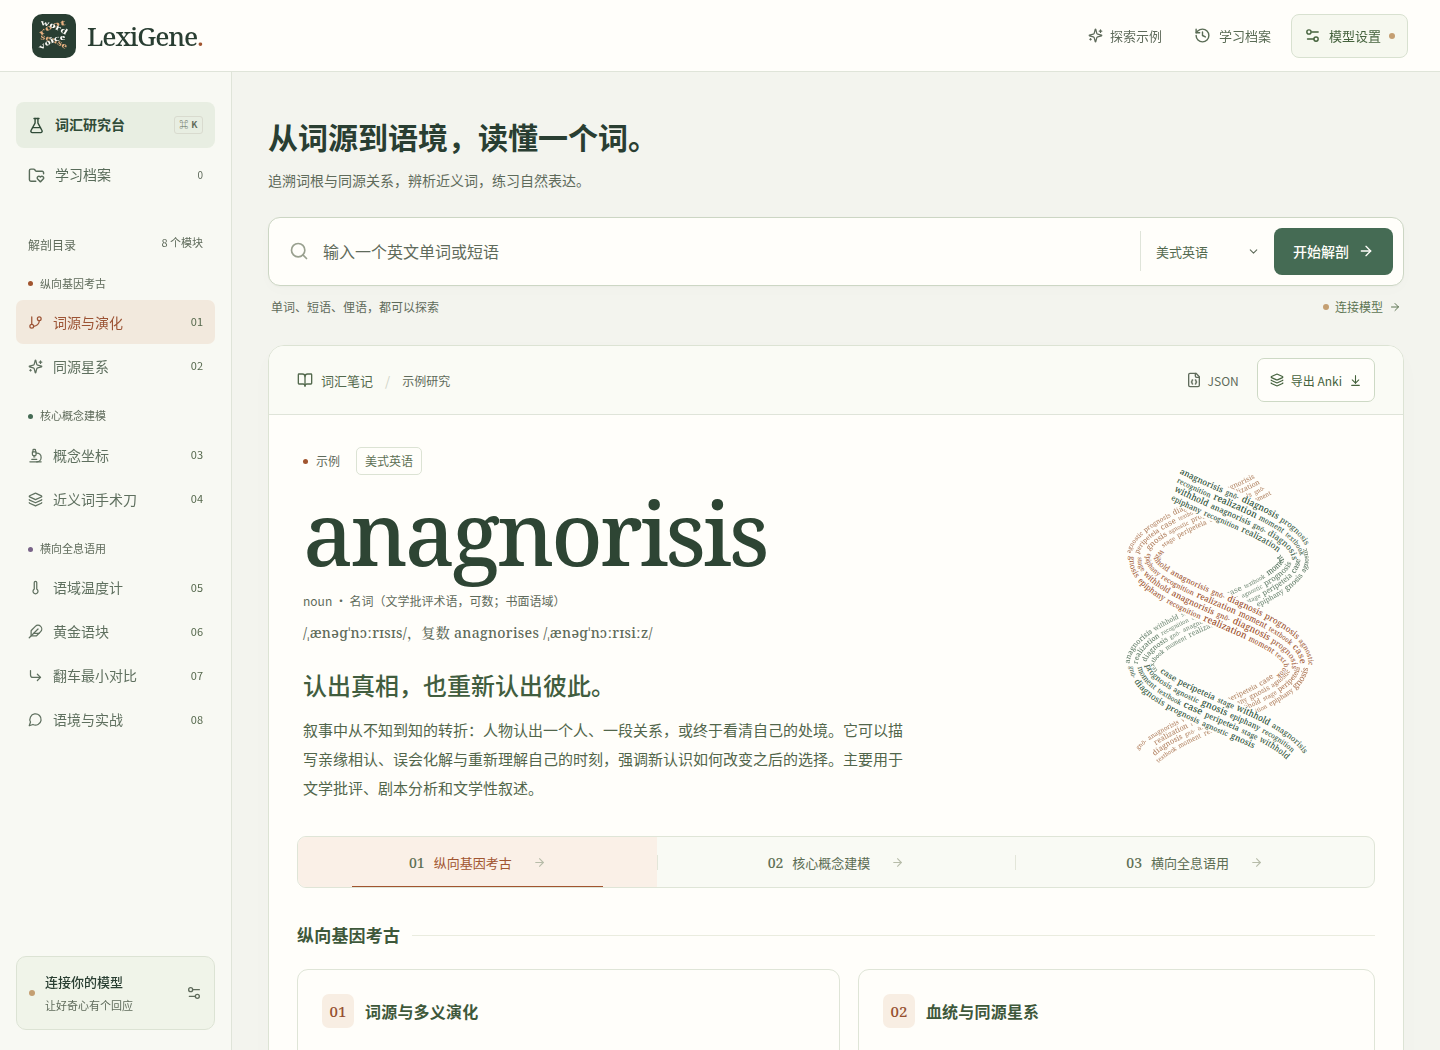
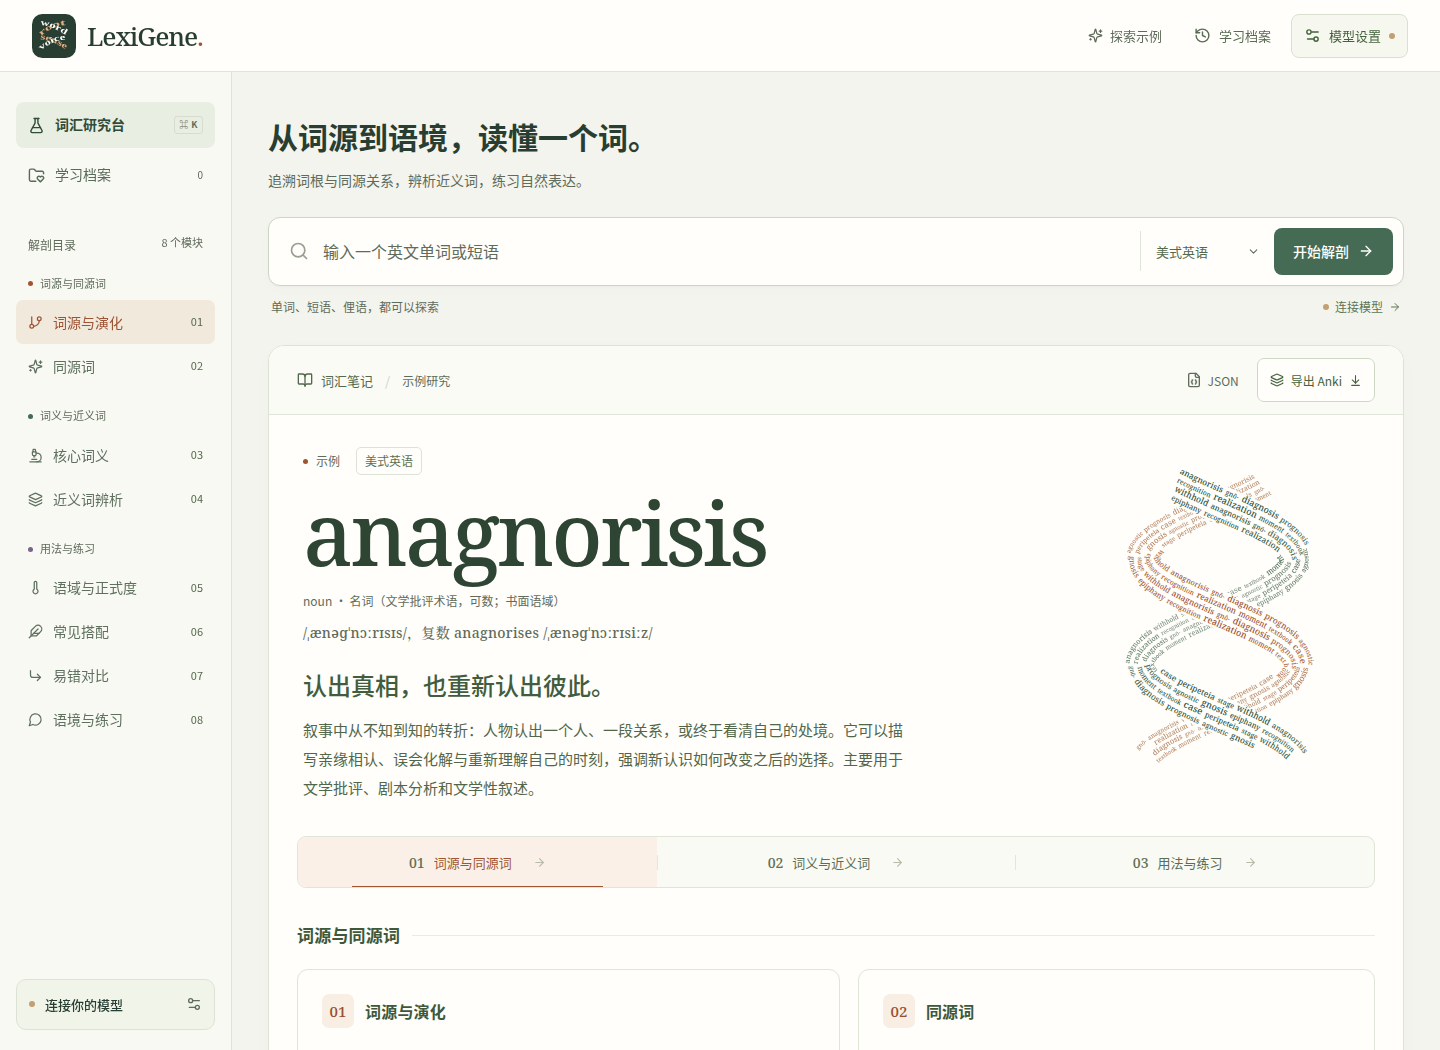
Remove remaining drawer slogans and refresh interface screenshots

diff --git a/src/components/lexigene.tsx b/src/components/lexigene.tsx
@@ -148,7 +148,7 @@ export default function LexiGene() {
     requestAnimationFrame(() => document.getElementById('target-input')?.focus({ preventScroll: true }));
   }, []);
 
-  const sidebar = <><div className="sidebar-workspace"><button className="workspace-link selected" onClick={focusSearch}><FlaskConical size={17} /> 词汇研究台 <span className="shortcut">⌘ K</span></button><button className="workspace-link" onClick={() => { setMobileMenu(false); setDrawer('history'); }}><FolderHeart size={17} /> 学习档案 <span className="count-badge">{history.length}</span></button></div><div className="sidebar-chapters"><div className="sidebar-label chapter-label">解剖目录 <span>8 个模块</span></div>{dimensionNames.map((name, d) => <div className={`chapter-group chapter-${d}`} key={name}><span className="chapter-group-name"><i />{name}</span>{moduleNames.map((name, i) => { if ((d === 0 && i > 1) || (d === 1 && (i < 2 || i > 3)) || (d === 2 && i < 4)) return null; const Icon = moduleIcons[i]; return <button key={name} onClick={() => jump(`module-${i + 1}`)} aria-current={activeModule === i + 1 ? 'location' : undefined} className={activeModule === i + 1 ? 'active' : ''}><Icon size={15} /><span>{name}</span><small>{String(i + 1).padStart(2, '0')}</small></button>; })}</div>)}</div><div className="sidebar-bottom"><button className="api-sidebar" onClick={() => { setMobileMenu(false); setDrawer('settings'); }}><span className={`api-status ${config.apiKey ? 'configured' : ''}`} /><span><strong>{config.apiKey ? '模型已配置' : '连接你的模型'}</strong><small>{config.apiKey ? config.model : '让好奇心有个回应'}</small></span><Settings2 size={16} /></button></div></>;
+  const sidebar = <><div className="sidebar-workspace"><button className="workspace-link selected" onClick={focusSearch}><FlaskConical size={17} /> 词汇研究台 <span className="shortcut">⌘ K</span></button><button className="workspace-link" onClick={() => { setMobileMenu(false); setDrawer('history'); }}><FolderHeart size={17} /> 学习档案 <span className="count-badge">{history.length}</span></button></div><div className="sidebar-chapters"><div className="sidebar-label chapter-label">解剖目录 <span>8 个模块</span></div>{dimensionNames.map((name, d) => <div className={`chapter-group chapter-${d}`} key={name}><span className="chapter-group-name"><i />{name}</span>{moduleNames.map((name, i) => { if ((d === 0 && i > 1) || (d === 1 && (i < 2 || i > 3)) || (d === 2 && i < 4)) return null; const Icon = moduleIcons[i]; return <button key={name} onClick={() => jump(`module-${i + 1}`)} aria-current={activeModule === i + 1 ? 'location' : undefined} className={activeModule === i + 1 ? 'active' : ''}><Icon size={15} /><span>{name}</span><small>{String(i + 1).padStart(2, '0')}</small></button>; })}</div>)}</div><div className="sidebar-bottom"><button className="api-sidebar" onClick={() => { setMobileMenu(false); setDrawer('settings'); }}><span className={`api-status ${config.apiKey ? 'configured' : ''}`} /><span><strong>{config.apiKey ? '模型已配置' : '连接你的模型'}</strong>{config.apiKey && <small>{config.model}</small>}</span><Settings2 size={16} /></button></div></>;
 
   useEffect(() => { const handle = (e: KeyboardEvent) => { if ((e.metaKey || e.ctrlKey) && e.key.toLowerCase() === 'k') { e.preventDefault(); focusSearch(); } }; window.addEventListener('keydown', handle); return () => window.removeEventListener('keydown', handle); }, [focusSearch]);
 
@@ -177,7 +177,7 @@ export default function LexiGene() {
     <footer className="study-footer"><span className="footer-mark"><BrandMark /> LexiGene.</span><button className="text-button" onClick={focusSearch}>查询下一个词 <ArrowRight size={14} /></button></footer></div>
     <div className="page-bottom">{complete && doc.id !== demo.id && <button onClick={() => void generate({ ...doc, id: crypto.randomUUID(), createdAt: new Date().toISOString(), dimensions: {} })} disabled={busy}>重新解析 {doc.target}</button>}</div></div></main>
     <AnimatePresence>{toast && <m.div role="status" className="toast" initial={{ opacity: 0, y: 16 }} animate={{ opacity: 1, y: 0 }} exit={{ opacity: 0, y: 8 }}><CheckCircle2 size={17} />{toast}</m.div>}</AnimatePresence>
-    {drawer && <Drawer title={{ settings: '连接你的语言模型', history: '学习档案', export: '把理解，变成记忆。' }[drawer]} subtitle="" onClose={() => setDrawer(null)}>
+    {drawer && <Drawer title={{ settings: '连接你的语言模型', history: '学习档案', export: '导出 Anki 卡片' }[drawer]} subtitle="" onClose={() => setDrawer(null)}>
       {drawer === 'settings' && <SettingsForm config={config} remember={remember} onSave={saveConfig} />}
       {drawer === 'history' && <HistoryPanel history={history} drafts={drafts} busy={busy} onOpen={openRecord} onDelete={removeRecord} onImport={() => fileInput.current?.click()} />}
       {drawer === 'export' && complete && <ExportPanel doc={complete} cards={cards} selected={selectedCards} onChange={ids => { setSelectedCards(ids); void saveSelections(complete.id, ids).catch(() => notify('无法保存卡片选择，请重试。')); }} notify={notify} />}
@@ -254,7 +254,7 @@ function SettingsForm({ config, remember, onSave }: { config: ApiConfig; remembe
     }
   }
   return <form className="settings-form" onSubmit={e => { e.preventDefault(); const value = validated(); if (value) onSave(value, persistent); }}>
-    <div className="provider-mark"><span className="provider-icon"><Sparkles size={22} /></span><div><strong>OpenAI 兼容接口</strong><p>连接你喜欢的模型，开启词汇探索。</p></div></div>
+    <div className="provider-mark"><span className="provider-icon"><Sparkles size={22} /></span><div><strong>OpenAI 兼容接口</strong></div></div>
     <label>API Base URL<input type="url" placeholder="https://api.openai.com/v1" value={form.baseUrl} onChange={e => update('baseUrl', e.target.value)} required /><small>填写 API 根路径，例如 https://api.openai.com/v1</small></label>
     <label>API Key<input type="password" autoComplete="off" placeholder="sk-…" value={form.apiKey} onChange={e => update('apiKey', e.target.value)} required /></label>
     <div className="model-field">
@@ -287,7 +287,7 @@ function ExportPanel({ doc, cards, selected, onChange, notify }: { doc: Analysis
   async function rememberChoice() { await saveSelections(doc.id, selected); }
   async function exportApkg() { if (!chosen.length) return; setBusy(true); try { await rememberChoice(); const response = await fetch('/api/export/anki', { method: 'POST', headers: { 'Content-Type': 'application/json' }, body: JSON.stringify({ deckName: deckName.trim() || 'LexiGene', cards: chosen }) }); if (!response.ok) throw new Error(await responseError(response)); downloadBlob(await response.blob(), `${safeFilename(doc.target)}.apkg`); notify('Anki 牌组已准备好，导入后就能复习。'); } catch (cause) { notify(cause instanceof Error ? cause.message : '导出未完成，请重试。'); } finally { setBusy(false); } }
   async function exportTsv() { try { await rememberChoice(); downloadBlob(new Blob([cardsToTsv(chosen)], { type: 'text/tab-separated-values;charset=utf-8' }), `${safeFilename(doc.target)}.tsv`); } catch { notify('无法保存导出选择，请重试。'); } }
-  return <div className="export-panel"><div className="export-word"><span>为这个词留下一组线索</span><strong>{doc.target}</strong><small>{chosen.length} / {cards.length} 张卡片已选</small></div><label className="deck-label">Anki 牌组名称<input value={deckName} onChange={e => setDeckName(e.target.value)} maxLength={100} /></label><div className="card-type-toggles">{Object.entries(cardTypeNames).map(([type, name]) => { const group = cards.filter(c => c.type === type); const checked = group.length > 0 && group.every(c => selected.includes(c.id)); return <button className={checked ? 'selected' : ''} key={type} onClick={() => onChange(checked ? selected.filter(id => !group.some(c => c.id === id)) : Array.from(new Set([...selected, ...group.map(c => c.id)])))}>{checked && <Check size={12} />}{name}</button>; })}</div><div className="export-cards">{cards.map(card => <label className={`export-card ${selected.includes(card.id) ? 'selected' : ''}`} key={card.id}><input type="checkbox" checked={selected.includes(card.id)} onChange={() => toggle(card.id)} /><span><small>{cardTypeNames[card.type]}</small><strong>{card.front}</strong><details onClick={e => e.stopPropagation()}><summary>查看背面</summary><p>{card.back}</p></details></span></label>)}</div><div className="export-sticky"><button className="primary-button" disabled={!chosen.length || busy} onClick={() => void exportApkg()}>{busy ? <Loader2 size={16} className="spin" /> : <Download size={16} />}导出 Anki 牌组 <span>{chosen.length}</span></button><div><button disabled={!chosen.length || busy} onClick={() => void exportTsv()}>下载 TSV</button><span>·</span><button onClick={() => downloadBlob(new Blob([JSON.stringify(doc, null, 2)], { type: 'application/json' }), `${safeFilename(doc.target)}.json`)}>完整 JSON</button></div></div></div>;
+  return <div className="export-panel"><div className="export-word"><strong>{doc.target}</strong><small>{chosen.length} / {cards.length} 张卡片已选</small></div><label className="deck-label">Anki 牌组名称<input value={deckName} onChange={e => setDeckName(e.target.value)} maxLength={100} /></label><div className="card-type-toggles">{Object.entries(cardTypeNames).map(([type, name]) => { const group = cards.filter(c => c.type === type); const checked = group.length > 0 && group.every(c => selected.includes(c.id)); return <button className={checked ? 'selected' : ''} key={type} onClick={() => onChange(checked ? selected.filter(id => !group.some(c => c.id === id)) : Array.from(new Set([...selected, ...group.map(c => c.id)])))}>{checked && <Check size={12} />}{name}</button>; })}</div><div className="export-cards">{cards.map(card => <label className={`export-card ${selected.includes(card.id) ? 'selected' : ''}`} key={card.id}><input type="checkbox" checked={selected.includes(card.id)} onChange={() => toggle(card.id)} /><span><small>{cardTypeNames[card.type]}</small><strong>{card.front}</strong><details onClick={e => e.stopPropagation()}><summary>查看背面</summary><p>{card.back}</p></details></span></label>)}</div><div className="export-sticky"><button className="primary-button" disabled={!chosen.length || busy} onClick={() => void exportApkg()}>{busy ? <Loader2 size={16} className="spin" /> : <Download size={16} />}导出 Anki 牌组 <span>{chosen.length}</span></button><div><button disabled={!chosen.length || busy} onClick={() => void exportTsv()}>下载 TSV</button><span>·</span><button onClick={() => downloadBlob(new Blob([JSON.stringify(doc, null, 2)], { type: 'application/json' }), `${safeFilename(doc.target)}.json`)}>完整 JSON</button></div></div></div>;
 }
 function Sandbox({ doc, config, attempts, onConfigure, onAttempt, onQuestionHints }: { doc: AnalysisDraft; config: ApiConfig; attempts: Attempt[]; onConfigure: () => void; onAttempt: (attempt: Attempt) => Promise<void>; onQuestionHints: (questionId: string, hints: VocabularyHint[]) => void }) {
   const [questionIndex, setQuestionIndex] = useState(0); const [answers, setAnswers] = useState<Record<string, string>>({}); const [busy, setBusy] = useState(false); const [error, setError] = useState(''); const [reference, setReference] = useState(false);
